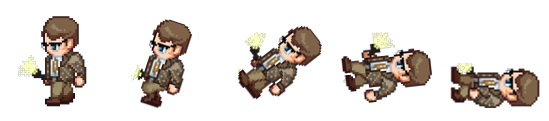
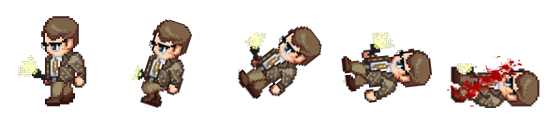
add die png

Changed region(s): [[0.8051, 0.4711, 0.9599, 0.843], [0.8361, 0.8678, 0.867, 0.8926]]

diff --git a/Torchase/Classes/GameScene.cpp b/Torchase/Classes/GameScene.cpp
@@ -28,10 +28,10 @@
 #include "SoundManager.h"
 USING_NS_CC;
 
-
-Scene* GameScene::createScene()
+int Level_of_difficult;
+Scene* GameScene::createScene(int Level_of_difficult_Scene)
 {
-	
+	Level_of_difficult = Level_of_difficult_Scene;
 	auto scene = Scene::createWithPhysics();
 	scene->getPhysicsWorld()->setDebugDrawMask(PhysicsWorld::DEBUGDRAW_ALL);
 
@@ -55,11 +55,10 @@ bool GameScene::init()
     }
     visibleSize = Director::getInstance()->getVisibleSize();
     origin = Director::getInstance()->getVisibleOrigin();
-	level = this->getTag();
-	log("%d", level);
+
 	player = new Player();	
 	this->addChild(player,30);
-
+	
 	this->runAction(Follow::create(player)); // add action camera follow player	
 
 	gameMap = new GameMap(this,player, AllMinions); // add gamemap
@@ -94,7 +93,7 @@ bool GameScene::init()
 	Director::getInstance()->getEventDispatcher()->addEventListenerWithSceneGraphPriority(contactListener, this);
 	playerdie = false;
 
-	SoundManager::getInstance()->PlayMusic(softbackground_sound,true,1.0f);
+	SoundManager::getInstance()->PlayMusics(softbackground_sound,true,1.0f);
 	
 	effect = Sprite::create();
 	effect->setPosition(player->getPosition());
@@ -231,7 +230,7 @@ bool GameScene::onContactBegin(cocos2d::PhysicsContact &contact)
 						{
 							Schedule_shake = CC_SCHEDULE_SELECTOR(GameScene::shakeScreen);
 							this->schedule(Schedule_shake, 0.1f);
-							SoundManager::getInstance()->PlayMusic(Roar_sound, false, 0.5f);
+							SoundManager::getInstance()->PlayMusics(Roar_sound, false, 0.5f);
 						}
 
 						AllMinions.at(i)->Roar(1);
@@ -258,7 +257,7 @@ bool GameScene::onContactBegin(cocos2d::PhysicsContact &contact)
 						{
 							Schedule_shake = CC_SCHEDULE_SELECTOR(GameScene::shakeScreen);
 							this->schedule(Schedule_shake, 0.1f);
-							SoundManager::getInstance()->PlayMusic(Roar_sound,false,0.5f);
+							SoundManager::getInstance()->PlayMusics(Roar_sound,false,0.5f);
 						}
 						AllMinions.at(i)->Roar(1);
 						break;
@@ -298,14 +297,28 @@ void GameScene::Lighting(float dt)
 		return;
 	else
 	{
-		canvas->endlight = false;
-		SoundManager::getInstance()->PlayMusic(LIGHTING);
+		
+		SoundManager::getInstance()->PlayMusics(LIGHTING);
 		if (player->background->isVisible() == true)
 			light = false;
 		else
 			light = true;
-		this->schedule(CC_SCHEDULE_SELECTOR(GameScene::Lightingbg), 0.25);
-		
+		if (Level_of_difficult != 1)
+		{
+			this->schedule(CC_SCHEDULE_SELECTOR(GameScene::Lightingbg), 0.25);
+			canvas->endlight = false;
+		}
+		if (Level_of_difficult == 2)
+		{
+			SoundManager::getInstance()->PlayMusics(Roar_sound, false, 0.5f);
+			Schedule_shake = CC_SCHEDULE_SELECTOR(GameScene::shakeScreen);
+			this->schedule(Schedule_shake, 0.1f);
+			for (int i = 0; i < AllMinions.size(); i++)
+			{
+				CCLOG("dddddddddd  aefwfa ",);
+				AllMinions.at(i)->Roar(1);
+			}
+		}
 		effect->setVisible(true);
 		Schedule_lighting = CC_SCHEDULE_SELECTOR(GameScene::Lightingstart);
 		this->schedule(Schedule_lighting, 0.5f);

diff --git a/Torchase/Classes/Canvas.cpp b/Torchase/Classes/Canvas.cpp
@@ -62,12 +62,13 @@ Canvas::Canvas(Player *playerScene, cocos2d::DrawNode* background_offScene)
 	ButtonRight->setPosition(Vec2(-visibleSize.width / 3 + origin.x + ButtonLeft->getContentSize().width*BUTTON_SCALE/1.3, -visibleSize.height / 4 + origin.y));
 	ButtonRight->addTouchEventListener(CC_CALLBACK_2(Canvas::MoveRight, this));
 
-	/*this->addChild(ButtonUp);
+	this->addChild(ButtonUp);
 	this->addChild(ButtonDow);
 	this->addChild(ButtonLeft);
-	this->addChild(ButtonRight);*/
+	this->addChild(ButtonRight);
 	this->addChild(ButtonLight);
 
+	// add slider enegy
 	enegy = ui::Slider::create();
 	enegy->loadBarTexture("Slider_Back.png"); // what the slider looks like
 	//enegy->loadSlidBallTextures("SliderNode_Normal.png", "SliderNode_Press.png", "SliderNode_Disable.png");
@@ -83,6 +84,7 @@ Canvas::Canvas(Player *playerScene, cocos2d::DrawNode* background_offScene)
 	int_move = 0;
 	BoolTouch = false;
 
+	// add touch move
 	auto touchListener = EventListenerTouchOneByOne::create();
 	touchListener->setSwallowTouches(true);
 	touchListener->onTouchBegan = CC_CALLBACK_2(Canvas::TouchMoveBegan, this);
@@ -162,7 +164,9 @@ void Canvas::OnOffLight(cocos2d::Ref * sender, cocos2d::ui::Widget::TouchEventTy
 			{
 				AllMinions.at(i)->lighton();
 			}
-			this->resume();
+			Schedule_ReduceEnegy = CC_SCHEDULE_SELECTOR(Canvas::reduceenergy);
+			this->schedule(Schedule_ReduceEnegy, TIME_REDUCE_ENERGY);
+			
 		}
 		else
 		{
@@ -173,7 +177,7 @@ void Canvas::OnOffLight(cocos2d::Ref * sender, cocos2d::ui::Widget::TouchEventTy
 			{
 				AllMinions.at(i)->lightoff();
 			}
-			this->pause();
+			this->unschedule(Schedule_ReduceEnegy);
 		}
 	}
 }
@@ -222,7 +226,6 @@ bool Canvas::TouchMoveBegan(cocos2d::Touch *touch, cocos2d::Event *event)
 {
 	if (BoolTouch == false)
 	{
-		this->schedule(CC_SCHEDULE_SELECTOR(Canvas::AutoMove), AUTO_SPEED);
 		BoolTouch = true;
 	}
 	return true;
@@ -236,6 +239,8 @@ bool Canvas::TouchMoveEnd(cocos2d::Touch *touch, cocos2d::Event *event)
 }
 bool Canvas::TouchMoveMove(cocos2d::Touch *touch, cocos2d::Event *event)
 { 
+	if(int_move==0)
+		this->schedule(CC_SCHEDULE_SELECTOR(Canvas::AutoMove), AUTO_SPEED);
 	cocos2d::Vec2 pointgoc = Vec2(touch->getStartLocation().x, touch->getStartLocation().y + 20) - touch->getStartLocation();
 	cocos2d::Vec2 point = touch->getLocation() - touch->getStartLocation();
 	float radian = (pointgoc.x * point.x + pointgoc.y * point.y) / (sqrt(point.x*point.x + point.y*point.y)*sqrt(pointgoc.x*pointgoc.x + pointgoc.y*pointgoc.y));
@@ -253,5 +258,6 @@ bool Canvas::TouchMoveMove(cocos2d::Touch *touch, cocos2d::Event *event)
 		else
 			int_move = 4;
 	}
+	
 	return true;
 }

diff --git a/Torchase/Classes/Player.cpp b/Torchase/Classes/Player.cpp
@@ -152,7 +152,7 @@ void Player::MoveUp()
 		this->runAction(animationAction);
 		this->runAction(sequence);
 		Player::setFalseMove();
-		SoundManager::getInstance()->PlayMusic(playerMove_sound, false, 0.3f);
+		SoundManager::getInstance()->PlayMusics(playerMove_sound, false, 0.3f);
 	}
 	else
 	{
@@ -176,7 +176,7 @@ void Player::MoveDow()
 		this->runAction(animationAction);
 		this->runAction(sequence);
 		Player::setFalseMove();
-		SoundManager::getInstance()->PlayMusic(playerMove_sound, false, 0.3f);
+		SoundManager::getInstance()->PlayMusics(playerMove_sound, false, 0.3f);
 	}
 	else
 	{
@@ -200,7 +200,7 @@ void Player::MoveLeft()
 		this->runAction(animationAction);
 		this->runAction(sequence);
 		Player::setFalseMove();
-		SoundManager::getInstance()->PlayMusic(playerMove_sound, false, 0.3f);
+		SoundManager::getInstance()->PlayMusics(playerMove_sound, false, 0.3f);
 	}
 	else
 	{
@@ -224,7 +224,7 @@ void Player::MoveRight()
 		this->runAction(animationAction);
 		this->runAction(sequence);
 		Player::setFalseMove();
-		SoundManager::getInstance()->PlayMusic(playerMove_sound,false,0.3f);
+		SoundManager::getInstance()->PlayMusics(playerMove_sound,false,0.3f);
 	}
 	else
 	{
@@ -258,7 +258,7 @@ void Player::Playerdie()
 }
 void Player::setActionDie(float dt)
 {
-	SoundManager::getInstance()->PlayMusic(HitTrap_sound,false,0.5f);
+	SoundManager::getInstance()->PlayMusics(HitTrap_sound,false,0.5f);
 	this->unscheduleAllCallbacks();
 	this->stopAllActions();
 	this->runAction(DeadAnimation);

diff --git a/Torchase/Classes/SoundManager.cpp b/Torchase/Classes/SoundManager.cpp
@@ -28,22 +28,22 @@ USING_NS_CC;
 
 SoundManager::SoundManager() {
 	//preload sound
-	AudioEngine::preload(thrillingbackground_sound);
+	/*AudioEngine::preload(thrillingbackground_sound);
 	AudioEngine::preload(HitTrap_sound);
 	AudioEngine::preload(playerMove_sound);
 	AudioEngine::preload(Roar_sound);
 	AudioEngine::preload(softbackground_sound);
 	AudioEngine::preload(surprisebackground_sound);
-	AudioEngine::preload(LIGHTING);
+	AudioEngine::preload(LIGHTING);*/
 
-
+		
 }
 
-void SoundManager::PlayMusic(std::string name) {
+void SoundManager::PlayMusics(std::string name) {
 	auto id = AudioEngine::play2d(name, false, 1.0f, nullptr);
 	ID[name] = id;
 }
-void SoundManager::PlayMusic(std::string name,bool loop,float volumn) {
+void SoundManager::PlayMusics(std::string name,bool loop,float volumn) {
 	auto id = AudioEngine::play2d(name, loop, volumn, nullptr);
 	ID[name] = id;
 }

diff --git a/Torchase/Classes/MainMenuScene.cpp b/Torchase/Classes/MainMenuScene.cpp
@@ -202,11 +202,7 @@ void MainMenuScene ::MainMenu(cocos2d::Ref* pSender) {
 void MainMenuScene::gotoPlayScreen(cocos2d::Ref* pSender) {
 	
 	auto node = dynamic_cast<Node*>(pSender);
-	
-
-	auto scene = GameScene::createScene();
-
-	log("%d", node->getTag());
+	auto scene = GameScene::createScene(node->getTag());
 	Director::getInstance()->replaceScene(TransitionFade::create(TRANSITION_TIME, scene));
 }
 void  MainMenuScene::OptionMenu(cocos2d::Ref* pSender) {

diff --git a/Torchase/Classes/GameScene.h b/Torchase/Classes/GameScene.h
@@ -37,7 +37,7 @@
 class GameScene : public cocos2d::Scene
 {
 public:
-    static cocos2d::Scene* createScene();
+    static cocos2d::Scene* createScene(int Level_of_difficult_Scene);
 	
     virtual bool init();
     CREATE_FUNC(GameScene);
@@ -79,6 +79,8 @@ private:
 
 	cocos2d::SEL_SCHEDULE Schedule_lighting;
 	cocos2d::SEL_SCHEDULE Schedule_shake;
+
+	
 };
 
 #endif // __GAMESCENE_H__

diff --git a/Torchase/Classes/SoundManager.h b/Torchase/Classes/SoundManager.h
@@ -38,8 +38,8 @@ public:
 	SoundManager();
 	//Function will return -1 if key not exist
 
-	void PlayMusic(std::string name);
-	void SoundManager::PlayMusic(std::string name, bool loop, float volumn);
+	void PlayMusics(std::string name);
+	void PlayMusics(std::string name, bool loop, float volumn);
 	int getID(std::string name);
 
 	static SoundManager* getInstance() {
